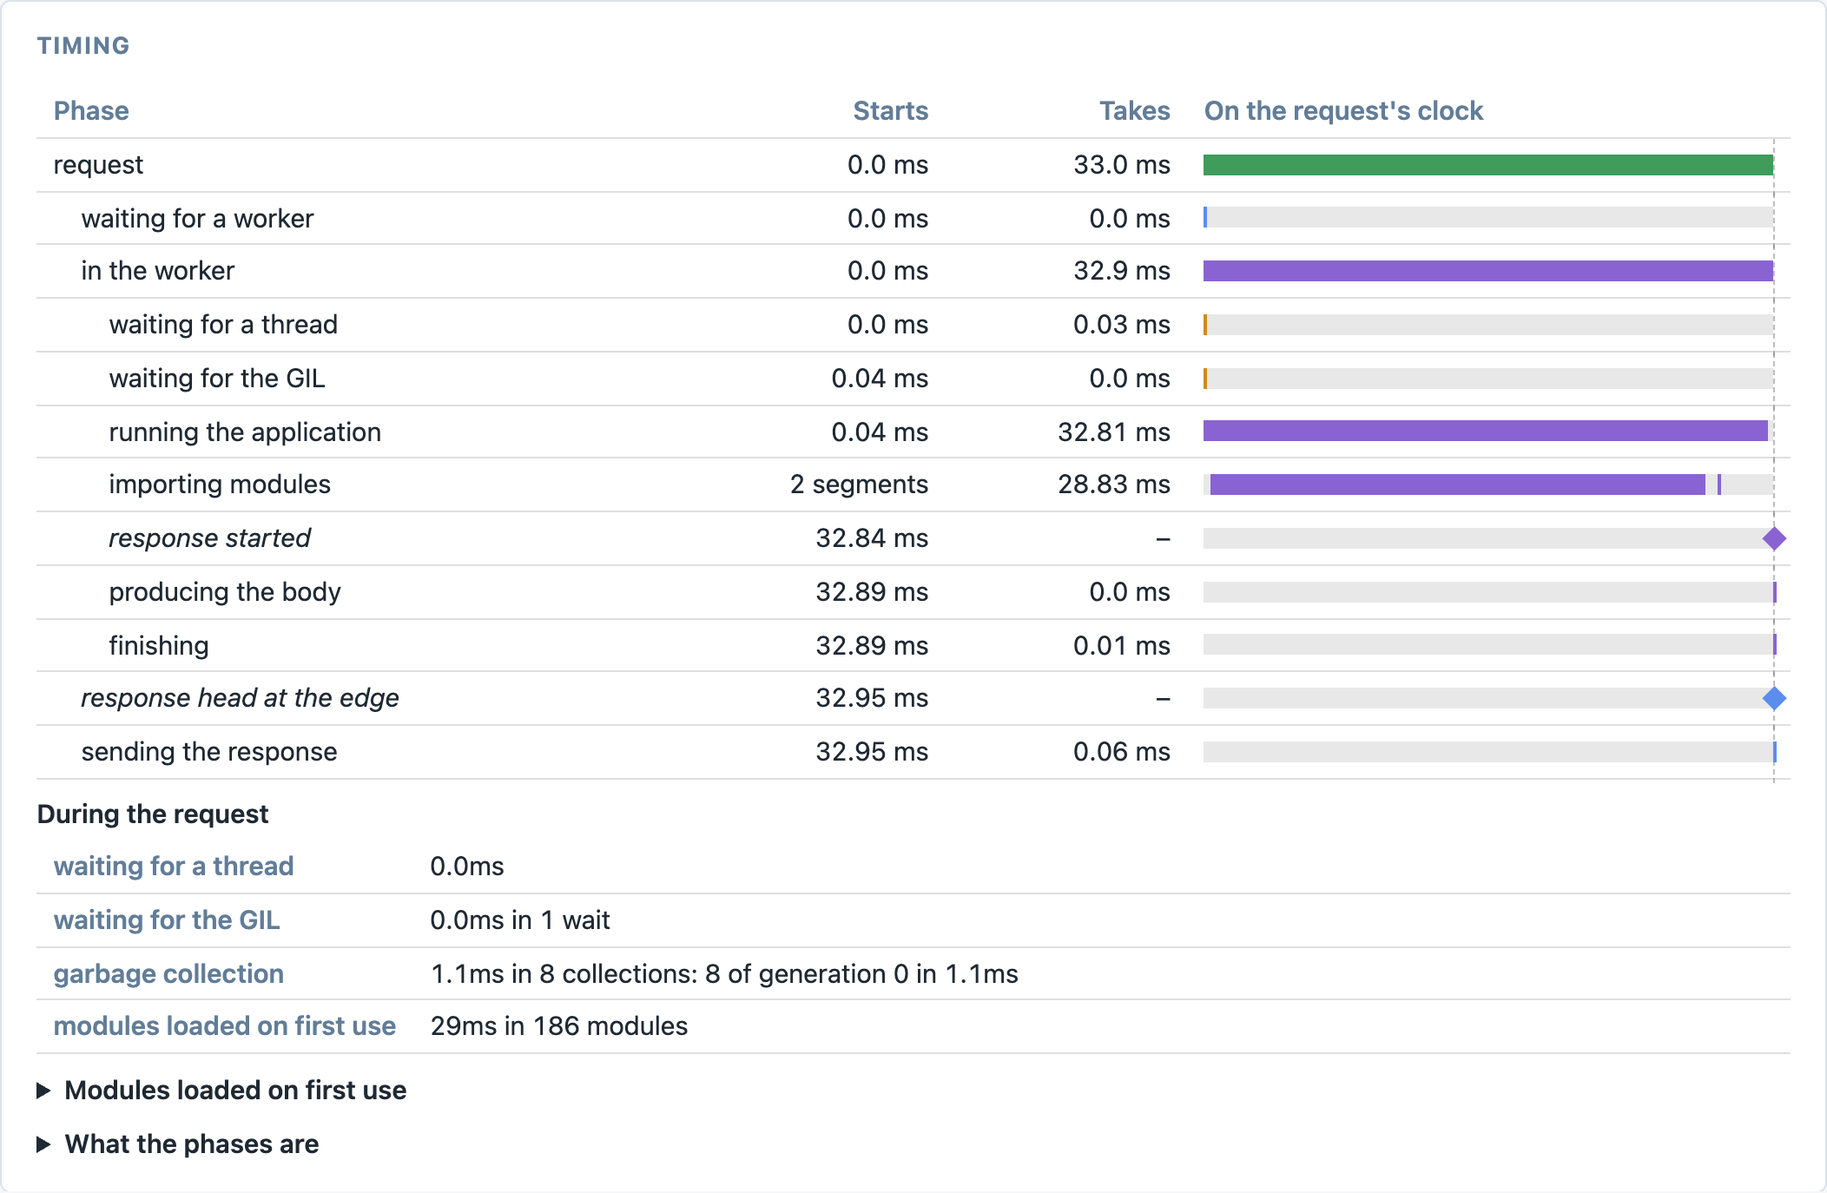
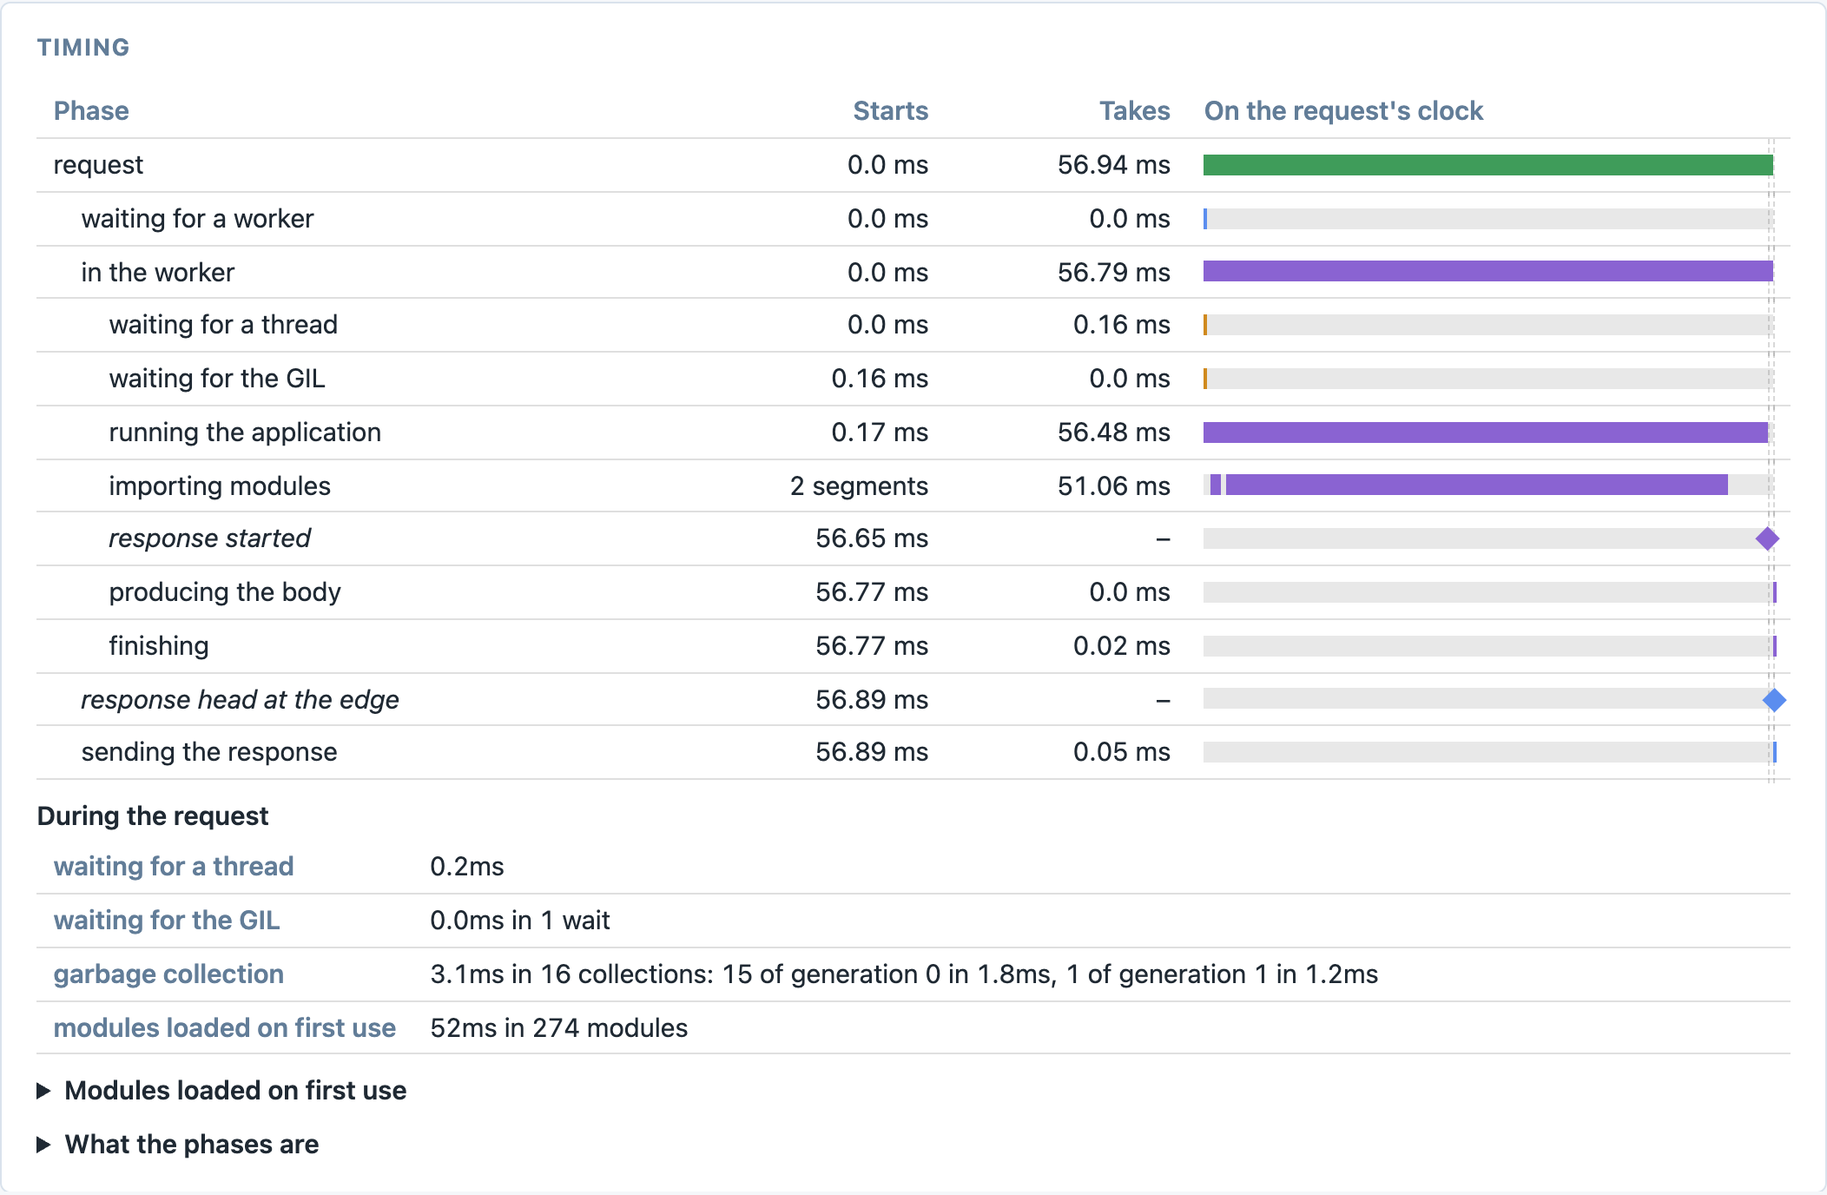
Update Muru toolbar, tracing and lazy imports drafts for current Muru output.

diff --git a/src/posts/2026/11/muru-when-lazy-imports-help/index.md b/src/posts/2026/11/muru-when-lazy-imports-help/index.md
@@ -86,40 +86,47 @@ entrypoint = "shop.app:app"
 import_report = true
 ```
 
-<!--
-RETAKE after muruhq/muru#788 (from-imports not counted: Flask, shop.export and anything loaded by a
-`from` statement are missing, so the 75.8 ms total and "most of the load was openpyxl" are understated),
-#784 ("modules loaded" counts top-level packages; rows imported by importlib._bootstrap) and #786.
--->
-
 `muructl debug imports` then prints a report of the host's load:
 
 ```
 $ muructl debug imports
 Import report of the host's load of shop@r1: outcome fork, Python 3.14.8, 2 workers
-  75.8 ms importing, 18 modules loaded, 4096 import calls; deferring what can be deferred would save about 73.4 ms
+  113.8 ms importing, 397 modules loaded, 4046 import calls; deferring what can be deferred would save about 75.2 ms
 
 Advice
-  defer: openpyxl imported by shop.export, 65.3 ms, loading entrypoint
+  defer: shop imported by shop.app, 71.2 ms, loading entrypoint
+    paid by the host, once before the fork, shared by the 2 workers; deferred, each worker that uses it loads it on first use
+    add 'shop' to __lazy_modules__ in shop.app; it defers natively from Python 3.15, and below it only once rewritten as import shop (from-import)
+      __lazy_modules__ = ['shop']
+  defer: openpyxl imported by shop.export, 70.9 ms, loading entrypoint
     paid by the host, once before the fork, shared by the 2 workers; deferred, each worker that uses it loads it on first use
     add 'openpyxl' to __lazy_modules__ in shop.export
       __lazy_modules__ = ['openpyxl']
-  defer: numpy imported by openpyxl.compat.numbers, 25.3 ms, loading entrypoint
-    paid by the host, once before the fork, shared by the 2 workers; deferred, each worker that uses it loads it on first use
-    defer it in openpyxl.compat.numbers with an entry of [tool.unwrapt.lazy_modules]
-      [tool.unwrapt.lazy_modules]
-      "openpyxl.compat.numbers" = ["numpy"]
 
 Imports that loaded a module, by cumulative time
-  CUM MS SAVES MS IMPORTED        IMPORTED BY                  LOADING    3.15 UNWRAPT NOTES
-    65.3     65.3 openpyxl        shop.export                  entrypoint yes  yes
-    25.3     25.3 numpy           openpyxl.compat.numbers      entrypoint yes  yes
-     4.9      0.0 numpy.matrixlib numpy.lib._index_tricks_impl entrypoint yes  yes
-     4.7      0.0 click           flask.app                    entrypoint yes  yes
-...
+  CUM MS SAVES MS IMPORTED IMPORTED BY         LOADING    3.15 UNWRAPT NOTES
+    71.2      0.0 shop     shop.app            entrypoint yes  no
+    70.9     70.9 openpyxl shop.export         entrypoint yes  yes
+     5.0      0.0 click    flask.app           entrypoint yes  yes     also imported eagerly by flask.cli
+     0.8      0.8 html     http.server         entrypoint yes  yes
+     0.7      0.0 decimal  flask.json.provider entrypoint yes  yes     also imported eagerly by openpyxl.compat.numbers
+  126 more rows with nothing to act on; --all lists them
+
+The 2 workers that answered have loaded no module for the first time since the fork.
 ```
 
-Most of the load was openpyxl, and the numpy it imports in turn. The advice for each import says what deferring it would mean, and the configuration to write. For the shop's own code, that is a `__lazy_modules__` list in the module making the import. For an import inside a package the project depends on, such as numpy here, where nobody wants to edit openpyxl's source, it is an entry of unwrapt's `[tool.unwrapt.lazy_modules]` table, naming the importing module and what to defer in it. The 3.15 and UNWRAPT columns say whether each way of deferring can defer that import as written, since Python 3.15 can defer a `from` import while unwrapt can only defer a plain `import`.
+Most of the load was openpyxl. The advice for each import says what deferring it would mean, and the configuration to write. For the shop's own code, that is a `__lazy_modules__` list in the module making the import. For an import inside a package the project depends on, where nobody wants to edit the package's source, it is an entry of unwrapt's `[tool.unwrapt.lazy_modules]` table, naming the importing module and what to defer in it.
+
+The first piece of advice is about the application's own `from shop import export`, and nearly all of its 71.2 milliseconds is the openpyxl which `shop.export` imports, so the two are different ways of deferring the same cost. The 3.15 and UNWRAPT columns say whether each way of deferring can defer that import as written, since Python 3.15 can defer a `from` import while unwrapt can only defer a plain `import`. On the Python 3.14 the shop runs on, deferring the `from` import would save nothing unless it were rewritten, which is why its SAVES column is zero.
+
+The report lists by default only the imports there is something to do about. With `--all` it lists the rest, among them the numpy which openpyxl imports in turn, for 28.6 of openpyxl's milliseconds:
+
+```
+  CUM MS SAVES MS IMPORTED IMPORTED BY             LOADING    3.15 UNWRAPT NOTES
+    28.6      0.0 numpy    openpyxl.compat.numbers entrypoint yes  yes     used at load, deferring saves nothing, ...
+```
+
+It isn't advised, because `openpyxl.compat.numbers` uses numpy at the top level, straight after importing it, to build a tuple of numeric types. A deferred import that is used the moment it is made is loaded straight away anyway, so deferring it would save nothing.
 
 The same report comes from `muructl check --imports`, which loads the application once without serving anything, so it can be run before and after a change, or in CI.
 
@@ -153,12 +160,12 @@ As the host forks, it says what was deferred, and whether anything used a deferr
 muru.host[74803]: lazy_imports: 1 import deferred, none of them used before the fork
 ```
 
-How much this saved needs more than one measurement, since a load's time varies from one start to the next by about as much as the difference being measured. A `muru.local.toml` beside the project overrides the project's settings for my own runs only, so `lazy_imports = false` in it turns deferral off without changing `pyproject.toml`. With `import_report = false` there as well, since recording the imports adds to the load, I started the run five times each way. The host took a median of 86 milliseconds to load the application without deferral, and 36 milliseconds with it.
+How much this saved needs more than one measurement, since a load's time varies from one start to the next by about as much as the difference being measured. A `muru.local.toml` beside the project overrides the project's settings for my own runs only, so `lazy_imports = false` in it turns deferral off without changing `pyproject.toml`. With `import_report = false` there as well, since recording the imports adds to the load, I started the run five times each way. The host took a median of 83 milliseconds to load the application without deferral, and 35 milliseconds with it.
 
 The cost hasn't gone away though, it has moved. The first request for the spreadsheet in a worker now loads openpyxl, and the numpy it imports in turn:
 
 ```
-server-timing: queue;dur=0.00, app;dur=75.59, import;dur=71.66, muru;desc="01M7PHGJ2M3VH05BSP37JY8X28"
+server-timing: queue;dur=0.00, app;dur=56.89, import;dur=52.03, muru;desc="01M7TS44DGPY87CQSBXYXS7D83"
 ```
 
 The `import` entry in `Server-Timing` is the time the request spent loading modules for the first time in its worker. The request's Timing panel, on the dashboard here since a spreadsheet has no page for the toolbar, shows it as an "importing modules" row, and its list of the modules loaded marks the one that resolved a deferred import, with the line of code that first used it:
@@ -167,35 +174,56 @@ The `import` entry in `Server-Timing` is the time the request spent loading modu
 
 ```
   Modules loaded on first use
-    openpyxl (deferred)  0.4ms  29ms  shop/export.py:11
-      openpyxl.compat  0.7ms  0.4ms  openpyxl/__init__.py:5
-        openpyxl.compat.numbers  0.8ms  0.1ms  openpyxl/compat/__init__.py:3
-        openpyxl.compat.strings  0.9ms  0.1ms  openpyxl/compat/__init__.py:4
-      openpyxl.xml  1.1ms  0.1ms  openpyxl/__init__.py:6
-      openpyxl.workbook  1.3ms  25ms  openpyxl/__init__.py:7
+    encodings.idna  0.7ms  1.0ms  encodings/__init__.py:100
+      stringprep  1.0ms  0.3ms  encodings/idna.py:3
+    openpyxl (deferred)  2.1ms  50ms  shop/export.py:11
+      openpyxl.compat  2.3ms  21ms  openpyxl/__init__.py:5
+        openpyxl.compat.numbers  2.4ms  21ms  openpyxl/compat/__init__.py:3
+          numpy  2.5ms  21ms  openpyxl/compat/numbers.py:9
 ...
 ```
 
 Line 11 of `shop/export.py` is `book = openpyxl.Workbook()`, the first use of the module.
 
-I also tried the report's second piece of advice, deferring numpy inside openpyxl with the `[tool.unwrapt.lazy_modules]` entry it gave. The list of modules for the next first download showed `numpy (deferred)` being loaded from line 16 of `openpyxl/compat/numbers.py`, while openpyxl itself was still loading. That module uses numpy at the top level, straight after importing it, to build a tuple of numeric types, so the deferred import is used the moment it is made and deferring it saves nothing. I took the entry out again. The report can only say what an import cost and whether it could be deferred, not whether the code will use it straight away, which is another reason to check a deferral against what the workers actually do.
+Since numpy was a good part of that, I tried deferring it inside openpyxl anyway, to see what the report's reason for not advising it looks like in practice, with an entry of `[tool.unwrapt.lazy_modules]`:
+
+```toml
+[tool.unwrapt.lazy_modules]
+"openpyxl.compat.numbers" = ["numpy"]
+```
+
+The list of modules for the next first download showed `numpy (deferred)` being loaded from line 16 of `openpyxl/compat/numbers.py`, while openpyxl itself was still loading. That is the line which builds the tuple of numeric types, so the deferred import was used the moment it was made. The workers' part of `muructl debug imports`, which comes up next, said the same of it, "used as openpyxl.compat.numbers loads, at openpyxl/compat/numbers.py:16; deferring it saves nothing, remove the entry", so I took the entry out again.
 
 ## Asking the workers
 
-Whether moving that cost was worth it depends on how many workers end up paying it, and that depends on the traffic. After the run had served some pages, several stock reports and one spreadsheet, the second half of `muructl debug imports` asked each worker what it had loaded for the first time since the fork:
+Whether moving that cost was worth it depends on how many workers end up paying it, and that depends on the traffic. After the run had served some pages, several stock reports and one spreadsheet, the last part of `muructl debug imports` asked each worker what it had loaded for the first time since the fork:
 
 ```
-Modules the 2 workers asked loaded for the first time since the fork
+Modules loaded for the first time since the fork, by the 2 workers that answered
   MODULE                      LOADED BY FIRST REQUEST                 MS ADVICE
-  shop.reports                2 of 2    01M7PH8GJ4ZX8NC4P53G6DXZFK 140.8 every worker loads it: load it before the fork with preload_modules = ["shop.reports"]
-  openpyxl (deferred)         1 of 2    01M7PH8GS1ZX8NC4P53G6DXZFV  46.9 deferral pays off: only some workers load it
-  encodings.idna              2 of 2    01M7PH8GHHZX8NC4P53G6DXZFJ   2.1 every worker loads it: load it before the fork with preload_modules = ["encodings.idna"]
-  openpyxl.packaging.extended 1 of 2    01M7PH8GS1ZX8NC4P53G6DXZFV   0.1 loading on first use pays off: only some workers load it
+  shop.reports                2 of 2    01M7TS5XN33J2YHXVA5EYVR7RN 134.0 every worker loads it: load it before the fork with preload_modules = ["shop.reports"]
+  openpyxl (deferred)         1 of 2    01M7TS5XV33J2YHXVA5EYVR7RX  28.7 deferred in the host; loaded by 1 of 2 workers: loading on first use pays off: only some workers load it
+  encodings.idna              2 of 2    01M7TS5XMM3J2YHXVA5EYVR7RM   1.4 every worker loads it: load it before the fork with preload_modules = ["encodings.idna"]
+  openpyxl.packaging.extended 1 of 2    01M7TS5XV33J2YHXVA5EYVR7RX   0.1 loading on first use pays off: only some workers load it
+  The counts cover the requests served so far; read them after representative traffic.
 ```
 
-The two features come out on opposite sides. Only one worker had needed openpyxl, so the other was spared both the time and the memory, and the deferral paid off. Every worker had needed `shop.reports`, and each loaded pandas itself, about 140 milliseconds a time, which the function level import in the view had pushed into the first report each worker served.
+The two features come out on opposite sides. Only one worker had needed openpyxl, so the other was spared both the time and the memory, and the deferral paid off. Every worker had needed `shop.reports`, and each loaded pandas itself, about 135 milliseconds a time, which the function level import in the view had pushed into the first report each worker served.
 
-That first report is also worse than it looks. With three requests for the report sent at once, two of them went to the same worker on different threads, and both took 125 milliseconds. One was loading pandas, and the other was waiting on Python's import lock for it to finish. The first requests after a deploy, or after a scale-out adds workers, are exactly when that happens.
+That first report is also worse than it looks. With three requests for the report sent at once, two of them went to the same worker on different threads, and both took about 140 milliseconds. Only one of them was loading pandas. The other was waiting on Python's import lock for it to finish, and their `Server-Timing` headers tell the two apart:
+
+```
+server-timing: queue;dur=0.01, app;dur=140.39, import;dur=137.67, muru;desc="01M7TS5YW93J2YHXVA5EYVR7RZ"
+server-timing: queue;dur=0.40, app;dur=140.80, import_wait;dur=138.92, muru;desc="01M7TS5YW93J2YHXVA5EYVR7S2"
+```
+
+The second request's Timing panel has a "waiting for an import" row in place of "importing modules", and names the module and the request it was waiting on:
+
+```
+waiting for an import: 139ms in 1 wait: shop.reports, loaded by request 01M7TS5YW93J2YHXVA5EYVR7RZ
+```
+
+The first requests after a deploy, or after a scale-out adds workers, are exactly when that happens.
 
 ## Loading before the fork
 
@@ -209,7 +237,7 @@ lazy_imports = true
 preload_modules = ["shop.reports"]
 ```
 
-The host's load now includes pandas, and the first reports in each worker took from one and a half to nine milliseconds, rather than more than a hundred.
+The host's load now includes pandas, and the first reports in each worker took from four and a half to nine milliseconds, rather than more than a hundred. The import report gives the entry's own cost on a line of its own, `preload_modules entry shop.reports: 145.5 ms in the host`, and doesn't advise deferring anything the entry loads, since that would only undo it.
 
 `preload_modules` is also the way to undo a deferral you don't want. Once Python 3.15 is common, libraries will start using `lazy import` themselves, for their own command line tools or their own start-up time, and in a web application that may move a library's import into the first request of each worker. Listing the module in `preload_modules` loads it before the fork regardless, and the deferred import finds it already loaded when the code first uses it.
 
@@ -218,11 +246,12 @@ The host's load now includes pandas, and the first reports in each worker took f
 The advice is only as good as the traffic the workers have seen. After a few more downloads of the spreadsheet, both workers had served one:
 
 ```
-Modules the 2 workers asked loaded for the first time since the fork
+Modules loaded for the first time since the fork, by the 2 workers that answered
   MODULE                      LOADED BY FIRST REQUEST                MS ADVICE
-  openpyxl (deferred)         2 of 2    01M7PH3ZDGCR5SGD0G3G63RV6H 36.4 every worker loads it, so deferring it gains nothing: load it before the fork with preload_modules = ["openpyxl"]
-  encodings.idna              2 of 2    01M7PH3ZATCR5SGD0G3G63RV68  2.0 every worker loads it: load it before the fork with preload_modules = ["encodings.idna"]
-  openpyxl.packaging.extended 2 of 2    01M7PH3ZDGCR5SGD0G3G63RV6H  0.2 every worker loads it: load it before the fork with preload_modules = ["openpyxl.packaging.extended"]
+  openpyxl (deferred)         2 of 2    01M7TS6PYFJQCRT78JGT5BYKRS 31.1 deferred in the host; loaded by 2 of 2 workers: load it before the fork with preload_modules = ["openpyxl"]
+  encodings.idna              2 of 2    01M7TS6CHTJQCRT78JGT5BYKRE  1.6 every worker loads it: load it before the fork with preload_modules = ["encodings.idna"]
+  openpyxl.packaging.extended 2 of 2    01M7TS6PYFJQCRT78JGT5BYKRS  0.1 every worker loads it: load it before the fork with preload_modules = ["openpyxl.packaging.extended"]
+  The counts cover the requests served so far; read them after representative traffic.
 ```
 
 With two workers running for a long time, a module that any request uses at all eventually ends up loaded in all of them, at which point the deferral bought nothing but a slower first request in each. With more workers, workers that are replaced after a number of requests, or an autoscaler which adds and removes workers as load changes, many workers may never get as far as needing it. Which of those describes a production deployment is something only its own traffic can say, so this is a question to ask of a running release rather than a development run. The same counts are kept as metrics, `muru_worker_modules_loaded_total` and `muru_worker_module_load_seconds_total`, so they can be watched over time.

diff --git a/src/posts/2026/11/muru-tracing-in-the-toolbar/index.md b/src/posts/2026/11/muru-tracing-in-the-toolbar/index.md
@@ -41,7 +41,13 @@ name = "urllib.request"
 
 The `flask` instrumentation records each request with the view that handled it, `sqlite3` records each query, with `statement = true` so the SQL itself is kept, and `urllib.request` records calls made with it. The configuration can also be in a `wrapture.toml` file beside `pyproject.toml`, or a file named by `WRAPTURE_CONFIG`, which is where wrapture itself would look for it. I have also put `toolbar = true` in the `[tool.muru.run]` table this time, so the toolbar is on without needing `--toolbar` each time.
 
-Not everyone working on a project may want tracing on, since it adds work to every request. `tracing = true` in the `muru.local.toml` beside the project turns it on for my own runs only, with the configuration still coming from the project. Tracing needs Python 3.12 or later, and if wrapture is missing, or its configuration can't be found or applied, the run logs why and serves the application untraced, rather than failing to start.
+When the run starts, the host says where the configuration came from and what it instruments:
+
+```
+muru.host[36012]: tracing on: wrapture configuration from [tool.wrapture] in ./pyproject.toml, instrumenting flask, sqlite3, urllib.request
+```
+
+Not everyone working on a project may want tracing on, since it adds work to every request. `tracing = true` in the `muru.local.toml` beside the project turns it on for my own runs only, with the configuration still coming from the project. Tracing needs Python 3.12 or later, and if wrapture is missing, or its configuration can't be found or applied, the run logs a one-line warning saying why and serves the application untraced, rather than failing to start.
 
 ## What the front page does
 

diff --git a/src/posts/2026/11/muru-a-toolbar-on-every-page/index.md b/src/posts/2026/11/muru-a-toolbar-on-every-page/index.md
@@ -55,7 +55,7 @@ transfer-encoding: chunked
 
 `Server-Timing` is a standard header, and the browser's developer tools already know what to do with it. In Chrome or Firefox, selecting a request in the Network tab and opening its Timing section shows `queue`, how long the request waited for a worker, and `app`, how long the application took to produce the response head, in milliseconds. The `muru` entry is the request's ID, the same as in `X-Request-ID` and the access log. `Muru-Request-Link` is the address of the request's page on the run's dashboard, which shows everything Muru kept about it.
 
-The first request in a worker to load modules it hadn't imported yet also gets an `import` entry, saying how long that took. That is a topic of its own, which I'll come back to in another post.
+The first request in a worker to load modules it hadn't imported yet also gets an `import` entry, saying how long that took, and a request that had to wait for another request in the worker to finish loading a module gets an `import_wait` entry. That is a topic of its own, which I'll come back to in another post.
 
 ## Turning the toolbar on
 
